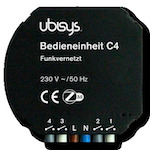
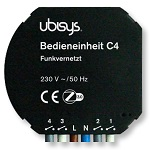
Ubisys configure inputs (#231)
* update ubisys C4, S1, S2 pictures (in line with other ubisys devices)

* ubisys C4 input configuration

* ubisys S1/S2/D1/J1 input configuration

diff --git a/docs/devices/C4.md b/docs/devices/C4.md
@@ -17,7 +17,34 @@ description: "Integrate your Ubisys C4 via Zigbee2mqtt with whatever smart home
 
 ## Notes
 
-None
+### General
+The ubisys C4 remote control unit seems to be primarily targeted to be directly bound to other ZigBee devices to control them. Therefore it does not emit plain "click" events or similar but can be configured to send ZigBee commands like on, off, toggle, cover up, cover down etc. from up to 6 endpoints (4 with on/off, level and scene clusters for lights and another 2 to control window covering devices).  
+When used with Zigbee2mqtt all endpoints get bound to the coordinator automatically. Therefore all actions will be sent to the coordinator and forwarded to MQTT in addition to being sent directly via ZigBee to other devices that have potentially been bound manually (see [Binding](../information/binding.html) for more information).  
+In it's factory reset configuration an ubisys C4 just sends a toggle command (originating from endpoints 1 to 4 respectively) for each input. Therefore basic keypresses on attached momentary switches can be processed through Zigbee2mqtt even without further input configuration.
+
+
+### Configuring Inputs
+By publishing to `zigbee2mqtt/[FRIENDLY_NAME]/set` the following device attributes can be set to configure inputs:
+```json
+{
+    "configure_device_setup": {
+        "inputConfigurations": [0, 0, 0, 0],
+        "inputActions": [
+            [0, 13, 1, 6, 0, 2],
+            [1, 13, 2, 6, 0, 2],
+            [2, 13, 3, 6, 0, 2],
+            [3, 13, 4, 6, 0, 2]
+        ]
+    }
+}
+```
+For further details on these attributes please take a look at the
+[ubisys C4 Technical Reference Manual](https://www.ubisys.de/wp-content/uploads/ubisys-c4-technical-reference.pdf),
+chapter "7.8.5. Device Setup Cluster (Server)" and the "ZigBee Device Physical Input Configurations Integrator's Guide" (which can be obtained directly from ubisys upon request).  
+Please note that there seems to be a size limit on the amount of data that can successfullly be written to `inputActions`, so not all configurations theoretically possbile might work in reality.
+
+By publishing to `zigbee2mqtt/[FRIENDLY_NAME]/get/configure_device_setup` the values of the configuration attributes can
+also be read back from the device and be printed to the normal zigbee2mqtt log.
 
 ## Manual Home Assistant configuration
 Although Home Assistant integration through [MQTT discovery](../integration/home_assistant) is preferred,

diff --git a/docs/devices/D1.md b/docs/devices/D1.md
@@ -26,6 +26,9 @@ description: "Integrate your Ubisys D1 via Zigbee2mqtt with whatever smart home
 color temperature (if applicable) and color (if applicable) changes. Defaults to `0` (no transition).
 Note that this value is overridden if a `transition` value is present in the MQTT command payload.
 
+### Configuring Inputs
+In case the inputs need to be reconfigured (e.g. to use only one momentary switch instead of two) this can be done in the same way as [it is being done for the ubisys C4](C4.html#configuring-inputs).
+
 
 ## OTA updates
 This device supports OTA updates, for more information see [OTA updates](../information/ota_updates.md).

diff --git a/docs/devices/S1.md b/docs/devices/S1.md
@@ -17,7 +17,8 @@ description: "Integrate your Ubisys S1 via Zigbee2mqtt with whatever smart home
 
 ## Notes
 
-None
+### Configuring Inputs
+In case the inputs need to be reconfigured (e.g. to use a stationary switch instead of a momentary one) this can be done in the same way as [it is being done for the ubisys C4](C4.html#configuring-inputs).
 
 ## OTA updates
 This device supports OTA updates, for more information see [OTA updates](../information/ota_updates.md).

diff --git a/docs/devices/S2.md b/docs/devices/S2.md
@@ -17,7 +17,8 @@ description: "Integrate your Ubisys S2 via Zigbee2mqtt with whatever smart home
 
 ## Notes
 
-None
+### Configuring Inputs
+In case the inputs need to be reconfigured (e.g. to use stationary switches instead of momentary ones) this can be done in the same way as [it is being done for the ubisys C4](C4.html#configuring-inputs).
 
 ## OTA updates
 This device supports OTA updates, for more information see [OTA updates](../information/ota_updates.md).

diff --git a/docs/devices/J1.md b/docs/devices/J1.md
@@ -99,6 +99,8 @@ for example:
     tilt_status_topic: null
 ```
 
+### Configuring Inputs
+In case the inputs need to be reconfigured (e.g. to use stationary switches  instead of momentary ones) this can be done in the same way as [it is being done for the ubisys C4](C4.html#configuring-inputs).
 
 ## OTA updates
 This device supports OTA updates, for more information see [OTA updates](../information/ota_updates.md).
